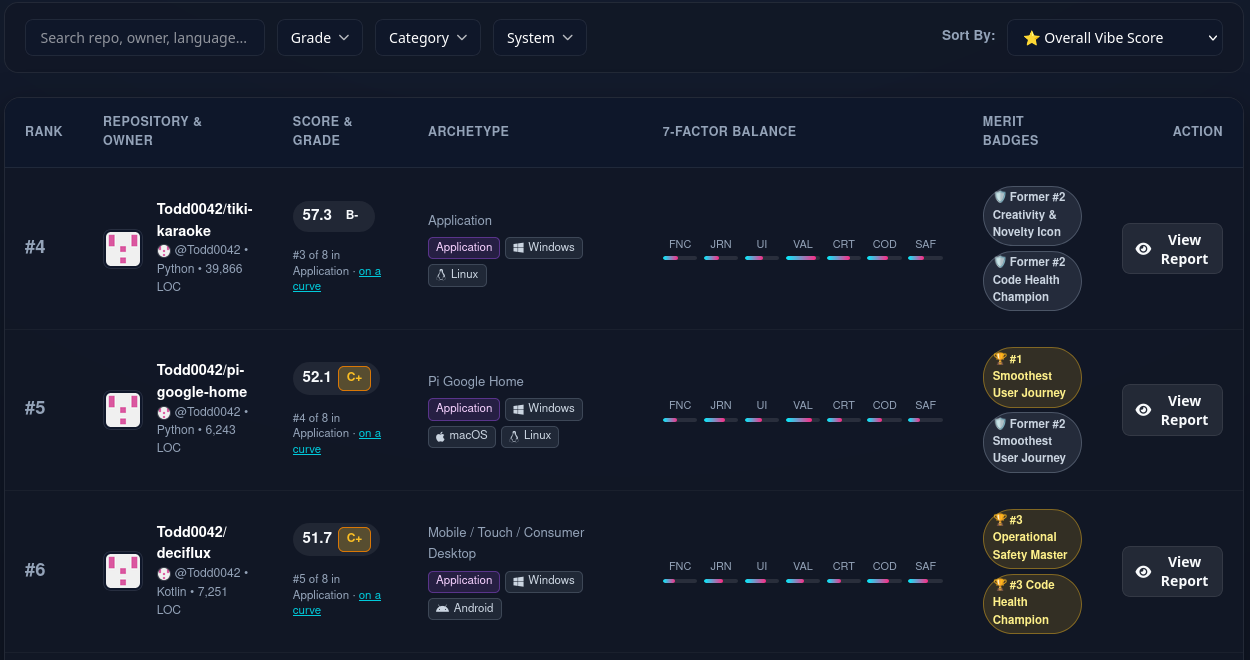
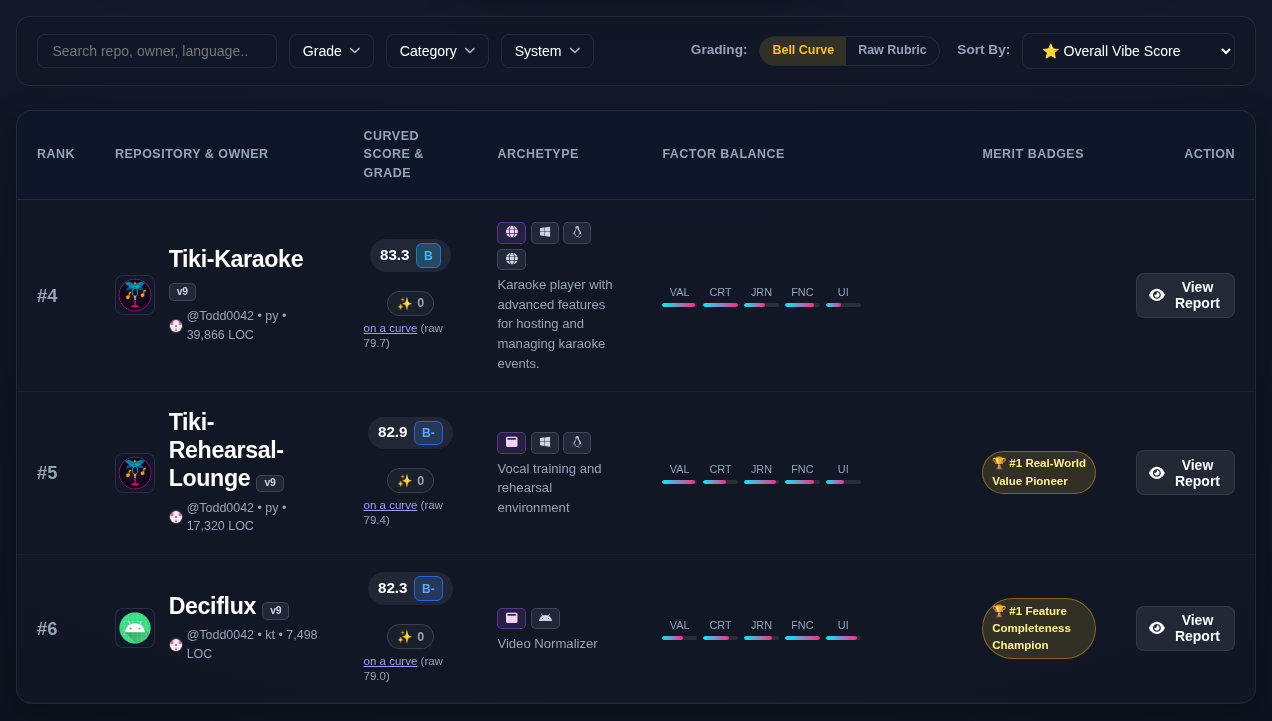
Docs: refresh README screenshots with updated UI theme and 5-factor rubric

diff --git a/README.md b/README.md
@@ -98,7 +98,7 @@ The radar is scaled to the project (0 at the centre, its best factor at the edge
   <img src="screenshots/report-radar.png" alt="Multi-factor radar, verdict and measurements" width="100%">
 </p>
 
-| 🧮 7-Factor Scorecard | 🛠 What Works, What Needs Work & Next Steps |
+| 🧮 5-Factor Scorecard | 🛠 What Works, What Needs Work & Next Steps |
 | :---: | :---: |
 | <img src="screenshots/report-scorecard.png" width="430"> | <img src="screenshots/report-findings.png" width="430"> |
 | *Weights, raw scores, contributions and the reviewers' observations* | *Strengths, gaps, and what a professional team would do next* |
@@ -131,10 +131,10 @@ AI reviewers are good at *comparing* projects but poor at absolute scores — th
 
 Every number and constant used by the curve is published live on the [Grading curve](https://letsvibe.todd0042.dev/grading-curve) page:
 
-| 🔔 Why a Curve & How It Works | 📐 The Reference Projects & Every Run |
+| 🔔 Why a Curve & How It Works | ✨ Community Sparks & Curved Grade Bands |
 | :---: | :---: |
 | <img src="screenshots/curve-method.png" width="400"> | <img src="screenshots/curve-reference.png" width="400"> |
-| *The method, the grade bands and each grade's share of a full bell* | *The exact prompt, the model that wrote it, and all three grading runs* |
+| *Why AI scores need a curve, default anchors, and adaptive scaling* | *Community Spark upvotes and the curved letter-grade ranges* |
 
 ---
 
